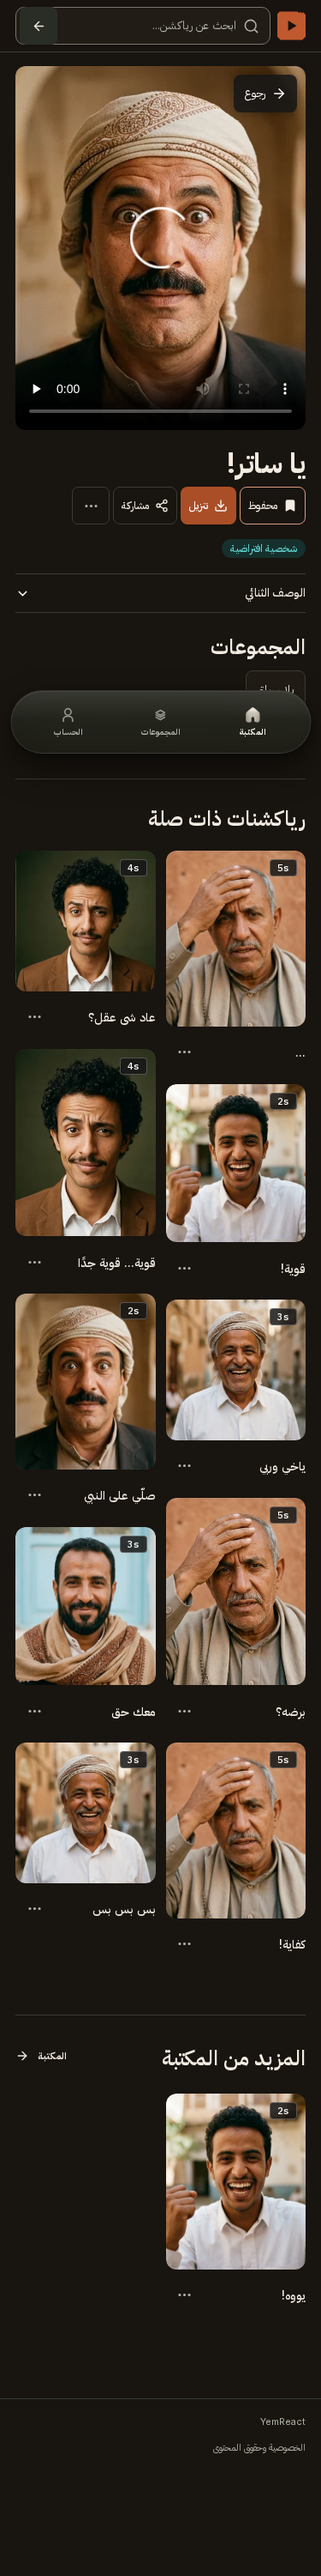
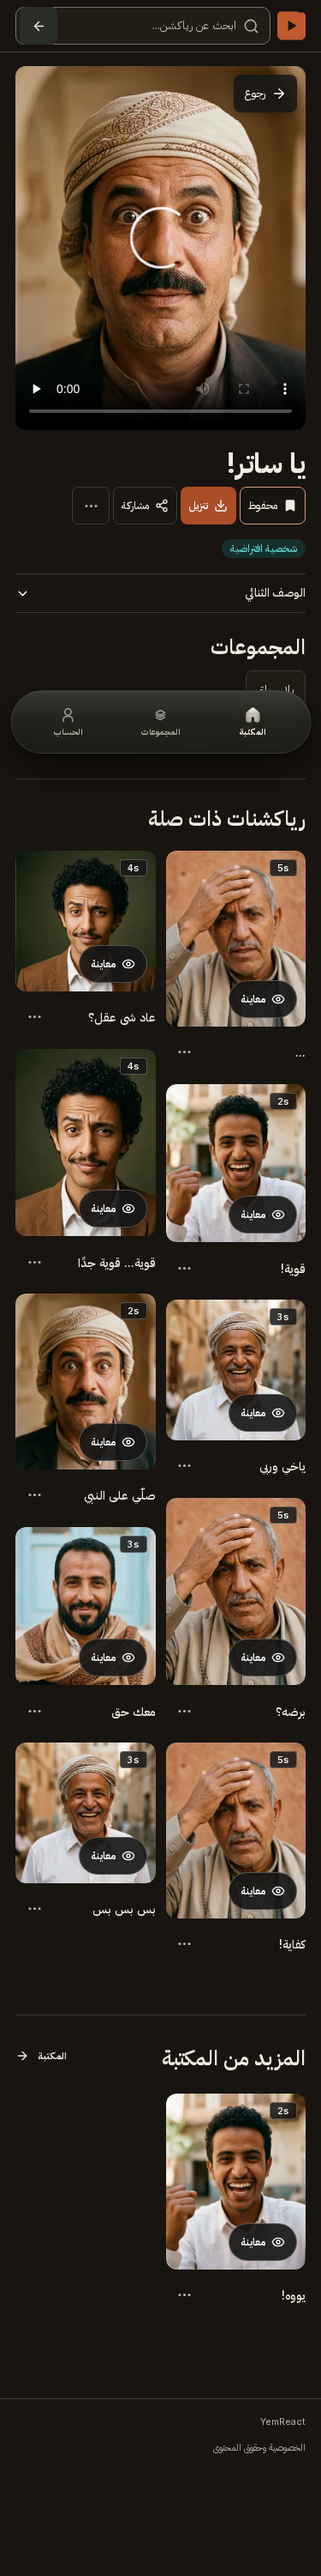
feat(ui): add independent card preview controls

diff --git a/src/components/Preview.tsx b/src/components/Preview.tsx
@@ -1,6 +1,6 @@
 'use client';
 import Link from 'next/link';
-import { useRef } from 'react';
+import { useRef, type TouchEvent } from 'react';
 import { motion, useReducedMotion } from 'framer-motion';
 import { ArrowLeft, ArrowRight, ExternalLink } from 'lucide-react';
 import { verifiedMediaType } from '@/lib/media';
@@ -8,13 +8,48 @@ import { distinctSituation } from '@/lib/reaction-copy';
 import { useApp } from './AppProvider';
 import { Modal } from './ui/Modal';
 import { ClipPlayer, ReactionActions } from './Clip';
+
+const interactiveTouchTarget =
+  'button, a, input, select, textarea, summary, video, [role="button"], [contenteditable="true"]';
+
 export function Preview() {
   const app = useApp(),
     index = app.reactions.findIndex((r) => r.code === app.preview),
     r = app.reactions[index];
   const situation = r ? distinctSituation(r.caption, r.situation) : null;
-  const touch = useRef(0);
+  const touch = useRef<{ x: number; blocked: boolean } | null>(null);
   const reduced = useReducedMotion() || app.reduced;
+  function startSwipe(event: TouchEvent<HTMLDivElement>) {
+    const target = event.target;
+    const startsOnMedia = target instanceof Element && target.closest('.clip-player');
+    const startsOnControl = target instanceof Element && target.closest(interactiveTouchTarget);
+    touch.current =
+      startsOnMedia && !startsOnControl ? { x: event.touches[0].clientX, blocked: false } : null;
+  }
+  function moveSwipe(event: TouchEvent<HTMLDivElement>) {
+    const gesture = touch.current;
+    if (!gesture) return;
+    const target = document.elementFromPoint(event.touches[0].clientX, event.touches[0].clientY);
+    if (
+      !(target instanceof Element) ||
+      !target.closest('.clip-player') ||
+      target.closest(interactiveTouchTarget)
+    ) {
+      gesture.blocked = true;
+    }
+  }
+  function finishSwipe(event: TouchEvent<HTMLDivElement>) {
+    const gesture = touch.current;
+    touch.current = null;
+    if (!gesture || gesture.blocked) return;
+    const delta = event.changedTouches[0].clientX - gesture.x;
+    if (Math.abs(delta) > 100) {
+      app.setPreview(
+        app.reactions[(index + (delta > 0 ? 1 : -1) + app.reactions.length) % app.reactions.length]
+          .code,
+      );
+    }
+  }
   return (
     <Modal
       open={!!r}
@@ -34,15 +69,11 @@ export function Preview() {
           animate={{ opacity: 1, y: 0 }}
           transition={{ duration: reduced ? 0 : 0.18 }}
           className="preview-grid"
-          onTouchStart={(e) => (touch.current = e.touches[0].clientX)}
-          onTouchEnd={(e) => {
-            const delta = e.changedTouches[0].clientX - touch.current;
-            if (Math.abs(delta) > 100 && !(e.target as HTMLElement).closest('video'))
-              app.setPreview(
-                app.reactions[
-                  (index + (delta > 0 ? 1 : -1) + app.reactions.length) % app.reactions.length
-                ].code,
-              );
+          onTouchStart={startSwipe}
+          onTouchMove={moveSwipe}
+          onTouchEnd={finishSwipe}
+          onTouchCancel={() => {
+            touch.current = null;
           }}
         >
           <ClipPlayer reaction={r} active={!!app.preview} />

diff --git a/src/components/ReactionCard.tsx b/src/components/ReactionCard.tsx
@@ -2,12 +2,13 @@
 import { useEffect, useRef, useState } from 'react';
 import Image from 'next/image';
 import Link from 'next/link';
+import { Eye } from 'lucide-react';
 import type { Reaction } from '@/lib/reactions';
 import { verifiedMediaType, videoSeconds } from '@/lib/media';
 import { useApp } from './AppProvider';
 import { ReactionMenu } from './ReactionMenu';
 
-/** A card is only media, verified video seconds, its primary title and an actions menu. */
+/** A card keeps preview on the media and its single details link on the title. */
 export function ReactionCard({
   reaction,
   savedView = false,
@@ -34,7 +35,7 @@ export function ReactionCard({
       setPlaying(false);
     }
   }, [hovered, app.reduced]);
-  function startPreview(event: React.PointerEvent<HTMLAnchorElement>) {
+  function startPreview(event: React.PointerEvent<HTMLButtonElement>) {
     if (
       isVideo &&
       event.pointerType === 'mouse' &&
@@ -47,10 +48,11 @@ export function ReactionCard({
   return (
     <article className={`reaction-card${savedView ? ' saved-card' : ''}`} data-media-type={kind}>
       <div className="card-visual" style={savedView && ratio ? { aspectRatio: ratio } : undefined}>
-        <Link
+        <button
+          type="button"
           className="card-preview"
-          href={`/r/${encodeURIComponent(reaction.code)}`}
-          aria-label={`${reaction.caption} — عرض التفاصيل`}
+          aria-label={`معاينة ${reaction.caption}`}
+          onClick={() => app.setPreview(reaction.code)}
           onPointerEnter={startPreview}
           onPointerLeave={() => {
             setHovered(false);
@@ -100,7 +102,11 @@ export function ReactionCard({
               {videoSeconds(reaction.duration)}
             </span>
           )}
-        </Link>
+          <span className="card-preview-label" aria-hidden="true">
+            <Eye size={16} />
+            <span>معاينة</span>
+          </span>
+        </button>
       </div>
       <div className="card-info">
         <Link

diff --git a/src/app/stage4.css b/src/app/stage4.css
@@ -221,7 +221,7 @@ h3,
   color: var(--ink);
 }
 
-/* Card: image/video, seconds-only badge, two-line title and 44x44 menu. */
+/* Card: media preview button, seconds-only badge, two-line title and 44x44 menu. */
 .reaction-card {
   position: relative;
   min-width: 0;
@@ -246,8 +246,34 @@ h3,
   box-shadow: var(--shadow-media-hover);
 }
 .reaction-card .card-preview {
+  color: inherit;
+  border: 0;
   overflow: hidden;
   border-radius: var(--radius-media);
+  background: transparent;
+  font: inherit;
+  cursor: pointer;
+  appearance: none;
+}
+.reaction-card .card-preview-label {
+  position: absolute;
+  inset-inline-start: 10px;
+  bottom: 10px;
+  z-index: 4;
+  display: inline-flex;
+  align-items: center;
+  justify-content: center;
+  gap: 7px;
+  min-height: var(--button-height);
+  padding-inline: 13px;
+  border: 1px solid #ffffff40;
+  border-radius: var(--radius-pill);
+  background: #161616e8;
+  color: #fff;
+  font-size: var(--text-small-size);
+  font-weight: 600;
+  line-height: 1;
+  pointer-events: none;
 }
 .reaction-card .card-image {
   object-fit: cover;

diff --git a/docs/DESIGN-SYSTEM.md b/docs/DESIGN-SYSTEM.md
@@ -43,17 +43,17 @@
 
 ## المكونات والتخطيط
 
-| المكوّن                             | السلوك المنفذ                                                                                                                                                                                                                                                                                                                                  |
-| ----------------------------------- | ---------------------------------------------------------------------------------------------------------------------------------------------------------------------------------------------------------------------------------------------------------------------------------------------------------------------------------------------- |
-| `Header`                            | عند `1024px` فأكثر يظهر التنقل المكتبي وإجراء الحساب؛ بين `640–1023px` يستخدم تنقلًا لوحيًا؛ وتحت `640px` تُستخدم واجهة الهاتف. ارتفاع صف الرأس `78px` على سطح المكتب و`60px` في قواعد الهاتف/اللوحي، مع تعويض التمرير عبر `--header-offset`.                                                                                                  |
-| `ReactionCard`                      | الوسيط بزوايا `12px` عمومًا؛ دبابيس Masonry بزوايا `14px` على الشاشات الأكبر و`10px` عند `600px` فأقل. شارة مدة الفيديو `32×20px` وتظهر للوسيط المتحقق منه فقط. عنوان من سطرين كحد أقصى، وقائمة خيارات هدفها `44×44px`؛ لا تُضاف شارات أشخاص أو أزرار حفظ إلى البطاقة.                                                                         |
-| `ReactionMenu`                      | يوفر الحفظ والمشاركة والنسخ والإبلاغ؛ يدعم `Escape` و`Home/End` والأسهم في القائمة، ويعيد التركيز إلى زر الفتح عند الإغلاق. يحاذي اللوحة إلى داخل الشاشة عند اقترابها من الحافة.                                                                                                                                                               |
-| `ReactionMasonry`                   | شبكة تحافظ على ترتيب DOM والقراءة ولوحة المفاتيح، مع حساب امتداد الدبابيس عبر `ResizeObserver`. الأعمدة: 4 افتراضيًا، 3 عند `1000px` فأقل، 2 عند `600px` فأقل، و5 ابتداءً من `1600px` و6 ابتداءً من `2400px`. نسب صور الدبابيس تتكرر دوريًا بين `4:5` و`1:1` و`3:4` و`4:4.5`. تُرسم النتائج الموجودة كاملةً؛ لا يوجد تحميل تلقائي عند التمرير. |
-| `Detail`                            | زر الرجوع فوق الوسيط. على الهاتف يظهر العنوان أولًا ثم مجموعة الإجراءات، وتبقى تسميات حفظ/تنزيل/مشاركة ظاهرة مع أهداف لمس لا تقل عن `44×44px`. يُعرض اسم الشخصية وحده؛ ويُحجب الوصف الثانوي إذا كان يكرر العنوان بعد تطبيع المسافات وبعض أشكال العربية.                                                                                        |
-| `Preview`                           | يعرض وصفًا ثانويًا فقط إذا أضاف معلومة إلى العنوان؛ لا يكرر النص نفسه في واجهة المعاينة.                                                                                                                                                                                                                                                       |
-| `.character-chip`                   | اختيارية في التفاصيل فقط، غير تفاعلية، بارتفاع `22px` وأقصى عرض `150px` مع قص النص الطويل.                                                                                                                                                                                                                                                     |
-| `CollectionCard`                    | غلاف ونص موجز وعدد العناصر؛ صفحة المجموعة تستخدم شبكة العناصر المشتركة.                                                                                                                                                                                                                                                                        |
-| `CollectionStudio` و`ReportsStudio` | واجهتا إدارة، والوصول إليهما محمي من الخادم. حجم مربع الاختيار الصغير استثناء مقصود؛ لا يُستخدم كقياس لبقية أهداف اللمس.                                                                                                                                                                                                                       |
+| المكوّن                             | السلوك المنفذ                                                                                                                                                                                                                                                                                                                                           |
+| ----------------------------------- | ------------------------------------------------------------------------------------------------------------------------------------------------------------------------------------------------------------------------------------------------------------------------------------------------------------------------------------------------------- |
+| `Header`                            | عند `1024px` فأكثر يظهر التنقل المكتبي وإجراء الحساب؛ بين `640–1023px` يستخدم تنقلًا لوحيًا؛ وتحت `640px` تُستخدم واجهة الهاتف. ارتفاع صف الرأس `78px` على سطح المكتب و`60px` في قواعد الهاتف/اللوحي، مع تعويض التمرير عبر `--header-offset`.                                                                                                           |
+| `ReactionCard`                      | الوسيط بزوايا `12px` عمومًا؛ دبابيس Masonry بزوايا `14px` على الشاشات الأكبر و`10px` عند `600px` فأقل. شارة مدة الفيديو `32×20px` وتظهر للوسيط المتحقق منه فقط. زر «معاينة» ظاهر ومستقل على الوسيط، ثم رابط العنوان الوحيد للتفاصيل وقائمة الخيارات بهدف `44×44px`؛ تدعم المعاينة اللمس ولوحة المفاتيح، ولا تُضاف شارات أشخاص أو أزرار حفظ إلى البطاقة. |
+| `ReactionMenu`                      | يوفر الحفظ والمشاركة والنسخ والإبلاغ؛ يدعم `Escape` و`Home/End` والأسهم في القائمة، ويعيد التركيز إلى زر الفتح عند الإغلاق. يحاذي اللوحة إلى داخل الشاشة عند اقترابها من الحافة.                                                                                                                                                                        |
+| `ReactionMasonry`                   | شبكة تحافظ على ترتيب DOM والقراءة ولوحة المفاتيح، مع حساب امتداد الدبابيس عبر `ResizeObserver`. الأعمدة: 4 افتراضيًا، 3 عند `1000px` فأقل، 2 عند `600px` فأقل، و5 ابتداءً من `1600px` و6 ابتداءً من `2400px`. نسب صور الدبابيس تتكرر دوريًا بين `4:5` و`1:1` و`3:4` و`4:4.5`. تُرسم النتائج الموجودة كاملةً؛ لا يوجد تحميل تلقائي عند التمرير.          |
+| `Detail`                            | زر الرجوع فوق الوسيط. على الهاتف يظهر العنوان أولًا ثم مجموعة الإجراءات، وتبقى تسميات حفظ/تنزيل/مشاركة ظاهرة مع أهداف لمس لا تقل عن `44×44px`. يُعرض اسم الشخصية وحده؛ ويُحجب الوصف الثانوي إذا كان يكرر العنوان بعد تطبيع المسافات وبعض أشكال العربية.                                                                                                 |
+| `Preview`                           | يعرض وصفًا ثانويًا فقط إذا أضاف معلومة إلى العنوان؛ لا يكرر النص نفسه في واجهة المعاينة.                                                                                                                                                                                                                                                                |
+| `.character-chip`                   | اختيارية في التفاصيل فقط، غير تفاعلية، بارتفاع `22px` وأقصى عرض `150px` مع قص النص الطويل.                                                                                                                                                                                                                                                              |
+| `CollectionCard`                    | غلاف ونص موجز وعدد العناصر؛ صفحة المجموعة تستخدم شبكة العناصر المشتركة.                                                                                                                                                                                                                                                                                 |
+| `CollectionStudio` و`ReportsStudio` | واجهتا إدارة، والوصول إليهما محمي من الخادم. حجم مربع الاختيار الصغير استثناء مقصود؛ لا يُستخدم كقياس لبقية أهداف اللمس.                                                                                                                                                                                                                                |
 
 تختلف أنصاف الأقطار حسب نوع السطح؛ استخدم الرمز الدلالي الأقرب بدل افتراض نصف قطر موحّد. الأزرار الأساسية تستخدم لون التأكيد؛ وتُحفظ حالات الخطأ للتنبيه ولا يُعبّر عن النجاح أو الفشل باللون وحده.
 

diff --git a/docs/STAGE4-UI.md b/docs/STAGE4-UI.md
@@ -8,7 +8,7 @@
 
 - **PD-I04:** Lalezar للشعار النصي العربي في Header فقط، IBM Plex Sans Arabic للعربية، Inter للاتينية، IBM Plex Mono للمدة والأرقام والكود. المقاييس الرئيسية H1 32/700/1.2، H2 24/600، H3 20/600، Body 16/14/13، Captions 12، Micro 11؛ `dir=rtl` على الصفحة وأرقام Western. تستخدم الخطوط المحلية المحزّمة في بناء Next.
 - **PD-I05:** العلامة المائية مجمّدة؛ أزيلت علامة Qusasa من كل الواجهات عدا شعار Header وأزيل نص النموذج المتراكب فوق الفيديو. توضيح طبيعة المقطع التجريبي موجود خارج الوسائط في التفاصيل.
-- **PD-I06:** البطاقة لا تحمل سوى الملف، شارة الثواني للفيديو أعلى اليمين بمقاس 32×20، عنوان بسطر واحد، وزر قائمة 34×34. نقر الوسائط أو العنوان يفتح صفحة التفاصيل؛ التحويم على الفيديو بمؤشر فأرة مناسب يشغّل المقطع صامتًا، ويتوقف عند الابتعاد؛ وضع الحركة المحدودة واللمس لا يبدأ تشغيلًا تلقائيًا. القائمة تحفظ وتشارك وتنسخ الرابط وترسل بلاغًا حقيقيًا.
+- **PD-I06:** البطاقة تعرض الوسيط، وشارة ثواني الفيديو أعلى اليمين بمقاس 32×20، عنوانًا حتى سطرين، وزر قائمة هدفه 44×44. زر «معاينة» الظاهر على الوسيط يفتح نافذة المعاينة؛ رابط العنوان وحده يفتح التفاصيل لتجنب رابطين متتابعين إلى المسار نفسه. التحويم على الفيديو بمؤشر فأرة مناسب يشغّل المقطع صامتًا ويتوقف عند الابتعاد؛ وضع الحركة المحدودة واللمس لا يبدأ تشغيلًا تلقائيًا. القائمة تحفظ وتشارك وتنسخ الرابط وترسل بلاغًا حقيقيًا.
 - **التفاصيل:** رجوع فوق الوسائط؛ لا شارة مدة فوق الوسائط؛ عنوان وأزرار حفظ/تنزيل/مشاركة/المزيد على صف واحد؛ اسم الشخصية اختيارياً في chip بصري غير قابل للنقر؛ حقل النص الأساسي واحد (`caption`) وتُعرض قيمة `situation` القديمة كوصف ثنائي مطوي إن وُجدت؛ المجموعات فقط عند العضوية؛ حتى 10 عناصر ذات صلة ثم حتى 20 عنصرًا إضافيًا دون تكرار. توجد ملاحظة مستقلة عن الوسائط التجريبية.
 - **PD-I07:** chip تركوازي 22px، padding 3×10px، IBM Plex Sans Arabic 12/500، حدّ عرض 150px وellipsis، في التفاصيل فقط. النموذج الأول يُظهر `شخصية افتراضية` للإيضاح دون ادعاء هوية شخص حقيقي.
 - **PD-I09 — ACCEPTED (2026-09-26):** لغة الحركة Hybrid: واجهة هادئة 120/180/240ms، و320ms للاستثناء؛ Standard `(.4,0,.2,1)`، Decelerate `(0,0,.2,1)`، Accelerate `(.4,0,1,1)`. الـSpring `(.34,1.56,.64,1)` محجوز لـSeal Motion ذي الست مراحل (~1.7s) فقط. لا انتقال بين الصفحات ولا شريط تقدم. في بوابة المساهمة: التنقل السفلي ثابت، Header الهاتف يخفي/يظهر خلال 250ms، الفحص بمؤشر بدل تقدم مزيف، shimmer يتوقف عند تقليل الحركة؛ راجع [قرار نقطة الدخول](CONTRIBUTION-ENTRY.md). اعتماد القرار لا يعني اكتمال تطبيق Seal Motion على تفاعل الحفظ في هذه المهمة. طلب «75 → 76 حقيقة / P-XX» يخص سجلّ حقائق خارجيًا غير متاح في المشروع؛ وُثّق مضمون القرار هنا دون اختراع رقم P نهائي أو تعديل سجلّ غير موجود.
@@ -24,4 +24,4 @@
 
 ## تحقق
 
-`corepack pnpm test` ثم `corepack pnpm typecheck` ثم `corepack pnpm build`. وتشغّل `node verification/stage4.cjs` مع خادم `pnpm start --port 3100` و`DATA_DIR` تجريبي. فحوص Chromium تتحقق من تحويل `/` الدائم، وتغطي المكتبة/المجموعات/التفاصيل على 11 عرضًا (`320/360/375/414/640/768/850/1024/1280/1440/1920px`)، موضع شارة المدة والقائمة داخل شاشة الهاتف، التحويم الحقيقي، الجوال/لوحة المفاتيح، الحفظ والنسخ والبلاغات، إنشاء مجموعة من الاستوديو وعزل الأدمن. ويضاف التحقق من معلم `main` واحد، عدم تكرار المعالم غير المسماة، تسلسل العناوين، أزواج تباين النص والعناصر النائبة والأيقونات والحدود من الأنماط المحسوبة، وضوح حلقة التركيز وتمييز التعطيل؛ ثم 11 فحص axe في النهاري/الليلي والحركة المحدودة، ومنها محرر المجموعة في الثيمين. تُدرج صورة موجودة ومتحقَّق من SHA-256 الخاصة بها مؤقتًا لاختبار بطاقة الصور/تفاصيلها/تنزيلها دون نشرها دائمًا. يزيل سيناريو المتصفح بيانات الاختبار المحلية في نهاية تشغيله.
+`corepack pnpm test` ثم `corepack pnpm typecheck` ثم `corepack pnpm build`. وتشغّل `node verification/stage4.cjs` مع خادم `pnpm start --port 3100` و`DATA_DIR` تجريبي. فحوص Chromium تتحقق من تحويل `/` الدائم، وتغطي المكتبة/المجموعات/التفاصيل على 11 عرضًا (`320/360/375/414/640/768/850/1024/1280/1440/1920px`)، موضع شارة المدة والقائمة داخل شاشة الهاتف، التحويم الحقيقي، فتح المعاينة بلوحة المفاتيح واللمس، منع السحب فوق زر إجراء من تبديل الوسيط، ورابط عنوان وحيد إلى التفاصيل؛ إضافةً إلى الحفظ والنسخ والبلاغات وإنشاء مجموعة من الاستوديو وعزل الأدمن. ويضاف التحقق من معلم `main` واحد، عدم تكرار المعالم غير المسماة، تسلسل العناوين، أزواج تباين النص والعناصر النائبة والأيقونات والحدود من الأنماط المحسوبة، وضوح حلقة التركيز وتمييز التعطيل؛ ثم 11 فحص axe في النهاري/الليلي والحركة المحدودة، ومنها محرر المجموعة في الثيمين. تُدرج صورة موجودة ومتحقَّق من SHA-256 الخاصة بها مؤقتًا لاختبار بطاقة الصور/تفاصيلها/تنزيلها دون نشرها دائمًا. يزيل سيناريو المتصفح بيانات الاختبار المحلية في نهاية تشغيله.
